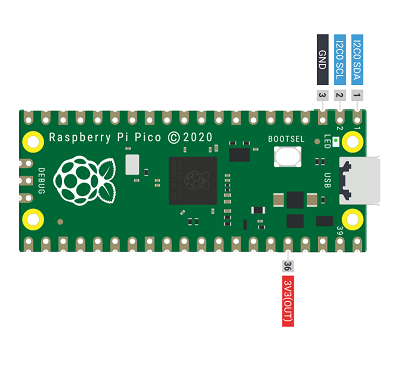
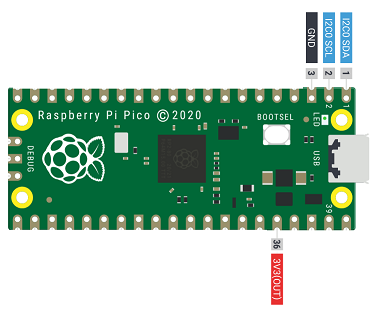
Minor updates

Changed region(s): [[0.0, 0.0288, 0.9894, 0.9776]]

diff --git a/main.py b/main.py
@@ -10,7 +10,7 @@ import time
 
 import machine
 
-# Define the i2c interface on pins 0 and 1. Ground is taken from pin 2 and 3.3v from pin 36 (3V3(OUT))
+# Define the i2c interface on pins 1 and 2. Ground is taken from pin 3 and 3.3v from pin 36 (3V3(OUT))
 sda = machine.Pin(0)  # GP_0
 scl = machine.Pin(1)  # GP_1
 
